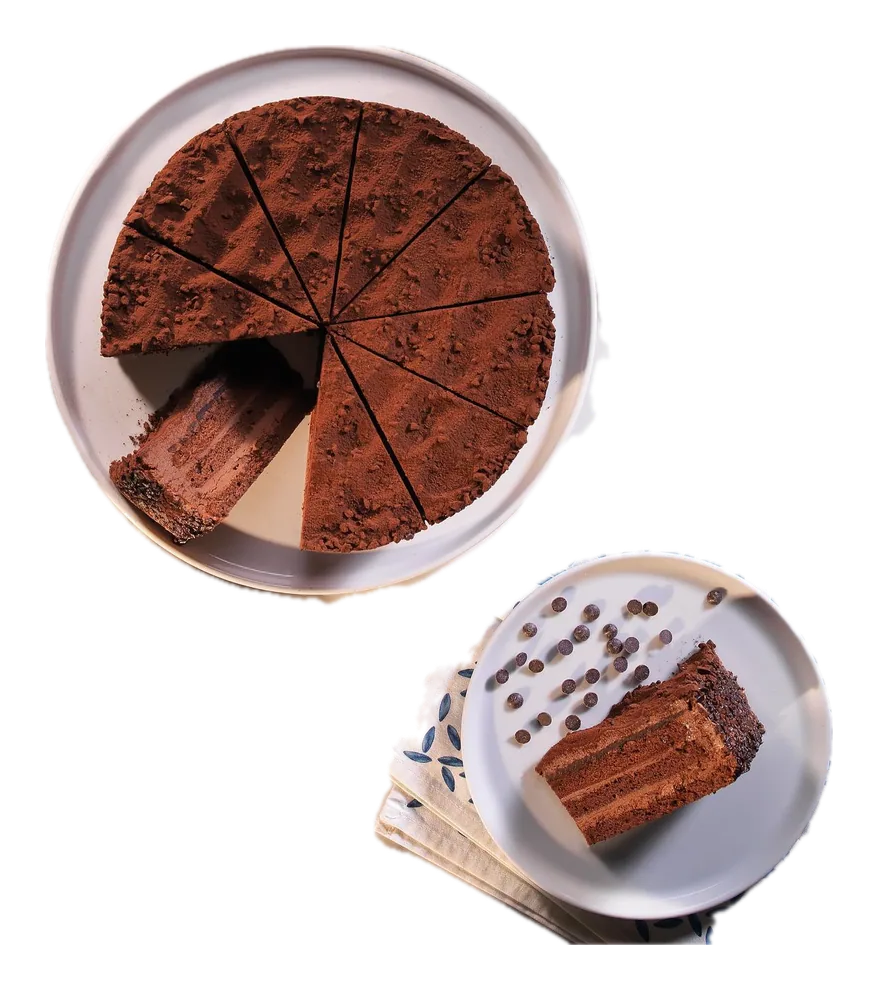
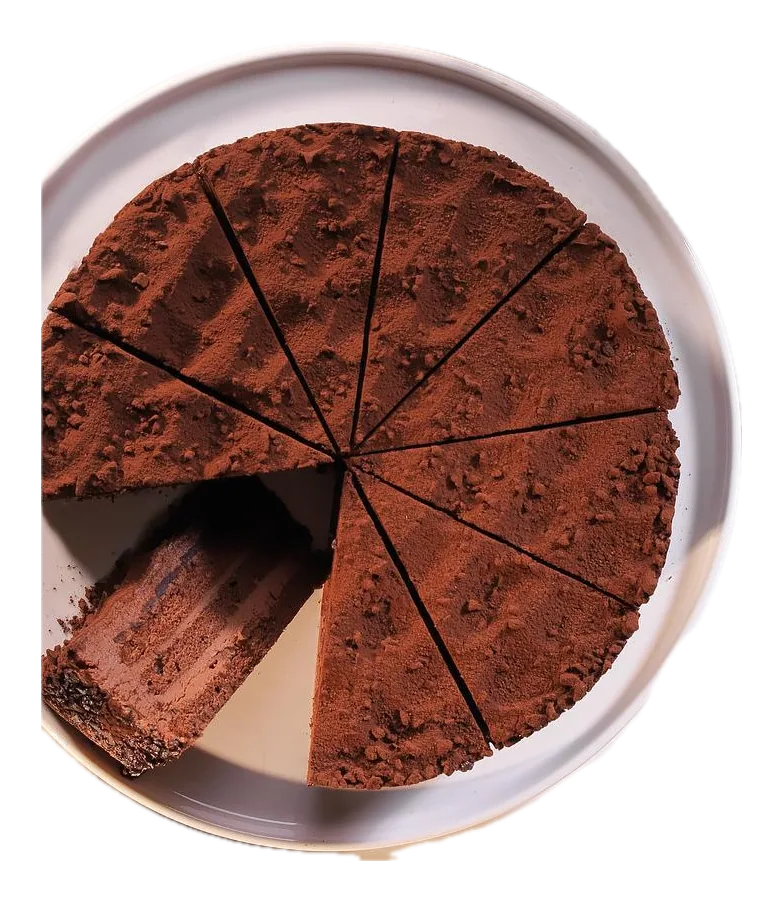
fix: tatlı görsellerinde kesit düzeltmeleri ve ad temizliği
53 tatlı görselinin tamamı gözden geçirildi.

KESİT DÜZELTMELERİ (6 görsel)
Bozuk olanların hepsi sweets/ kökündeki yaşam tarzı fotoğraflarıydı;
dilim-tatlilar/ altındaki D'ORO stüdyo çekimleri temizdi. Sorun ortaktı:
bu fotoğraflarda tek bir ürün yok — bütün pasta, dilim, tabak, bardak ve
çikolata parçaları bir arada. Vision maskesi hepsini birlikte kesiyordu.

Çözüm yine kesitten önce özneye kırpmak oldu:
- Frambuaz Jöleli Cheesecake: yanındaki iki bardak kadraj dışına alındı
- Kakaolu Çikolatalı Pasta: yuvarlak pasta, dağınık çikolata parçaları hariç
- Latte Pasta: tabaktaki dilim (öncesinde üstten ve alttan kesiliyordu)
- Frambuazlı Pasta: tabaktaki dilim
- Orman Meyveli Cheesecake: bütün pasta, arkadaki dilim parçası hariç
- Frambuazlı Çikolata Bar: tabaktaki barlar

AD DÜZELTMELERİ (13 ürün)
"Premium" ve "Deluxe" ekleri hiçbir bilgi taşımıyor, arama motorunda da
karşılığı yok; ürünü gerçekten ayıran görünür özellik yazıldı:

  Çikolatalı Pasta                  → Kakaolu Çikolatalı Pasta
  Premium Çikolatalı Pasta          → Pudra Şekerli Çikolatalı Pasta
  Deluxe Çikolatalı Pasta           → Çikolatalı Mus Bar
  Fıstıklı Çikolatalı Pasta Premium → Fıstık Kremalı Çikolatalı Pasta
  Fıstıklı Çikolatalı Pasta Deluxe  → Çifte Fıstıklı Çikolatalı Pasta
  Frambuazlı Cheesecake             → Frambuaz Jöleli Cheesecake
  Frambuazlı Cheesecake Premium     → Frambuazlı Dilim Cheesecake
  Yaban Mersinli Cheesecake Premium → Yaban Mersini Soslu Cheesecake
[…]

diff --git a/src/data/products.js b/src/data/products.js
@@ -499,11 +499,11 @@ export const products = [
   // TATLI ÜRÜNLERİ
   {
     id: 10,
-    slug: "doro-cake-frambuazli-cheesecake",
-    name: "DORO CAKE Frambuazlı Cheesecake",
+    slug: "doro-cake-frambuaz-joleli-cheesecake",
+    name: "DORO CAKE Frambuaz Jöleli Cheesecake",
     brand: "DORO CAKE",
-    productName: "Frambuazlı Cheesecake",
-    description: "Taze frambuazlı cheesecake, kahvenizin mükemmel eşlikçisi",
+    productName: "Frambuaz Jöleli Cheesecake",
+    description: "Frambuaz jölesiyle kaplanmış bütün cheesecake",
     category: "tatli",
     subCategory: "pasta",
     image: "images/sweets/frambuazlı-cheesecake.webp",
@@ -514,11 +514,11 @@ export const products = [
   },
   {
     id: 11,
-    slug: "doro-cake-cikolatali-pasta",
-    name: "DORO CAKE Çikolatalı Pasta",
+    slug: "doro-cake-kakaolu-cikolatali-pasta",
+    name: "DORO CAKE Kakaolu Çikolatalı Pasta",
     brand: "DORO CAKE",
-    productName: "Çikolatalı Pasta",
-    description: "Yoğun çikolata aromalı özel pasta",
+    productName: "Kakaolu Çikolatalı Pasta",
+    description: "Kakao serpilmiş, koyu çikolata katmanlı yuvarlak pasta",
     category: "tatli",
     subCategory: "çikolata",
     image: "images/sweets/cikolatalı-pasta-1.webp",
@@ -559,11 +559,11 @@ export const products = [
   },
   {
     id: 26,
-    slug: "doro-cake-premium-cikolatali-pasta",
-    name: "DORO CAKE Premium Çikolatalı Pasta",
+    slug: "doro-cake-pudra-sekerli-cikolatali-pasta",
+    name: "DORO CAKE Pudra Şekerli Çikolatalı Pasta",
     brand: "DORO CAKE",
-    productName: "Premium Çikolatalı Pasta",
-    description: "Özel çikolata karışımı ile hazırlanmış pasta",
+    productName: "Pudra Şekerli Çikolatalı Pasta",
+    description: "Pudra şekeri serpilmiş, yoğun çikolatalı dilim pasta",
     category: "tatli",
     subCategory: "çikolata",
     image: "images/sweets/cikolotali-pasta-2.webp",
@@ -574,11 +574,11 @@ export const products = [
   },
   {
     id: 27,
-    slug: "doro-cake-deluxe-cikolatali-pasta",
-    name: "DORO CAKE Deluxe Çikolatalı Pasta",
+    slug: "doro-cake-cikolatali-mus-bar",
+    name: "DORO CAKE Çikolatalı Mus Bar",
     brand: "DORO CAKE",
-    productName: "Deluxe Çikolatalı Pasta",
-    description: "Zengin çikolata katmanları ile özel pasta",
+    productName: "Çikolatalı Mus Bar",
+    description: "Çikolata bukleleri ve fıstıkla süslenmiş çikolatalı mus bar",
     category: "tatli",
     subCategory: "çikolata",
     image: "images/sweets/çikolatali-pasta-3.webp",
@@ -604,11 +604,11 @@ export const products = [
   },
   {
     id: 29,
-    slug: "doro-cake-kirmizi-meyveli-pasta",
-    name: "DORO CAKE Kırmızı Meyveli Pasta",
+    slug: "doro-cake-orman-meyveli-cheesecake",
+    name: "DORO CAKE Orman Meyveli Cheesecake",
     brand: "DORO CAKE",
-    productName: "Kırmızı Meyveli Pasta",
-    description: "Karışık kırmızı meyveler ile hazırlanmış pasta",
+    productName: "Orman Meyveli Cheesecake",
+    description: "Koyu orman meyvesi soslu, krema rozetli bütün cheesecake",
     category: "tatli",
     subCategory: "pasta",
     image: "images/sweets/kirmizi-meyveli-pasta.webp",
@@ -619,11 +619,11 @@ export const products = [
   },
   {
     id: 30,
-    slug: "doro-cake-krokanli-cikolatali-pasta",
-    name: "DORO CAKE Krokanlı Çikolatalı Pasta",
+    slug: "doro-cake-frambuazli-cikolata-bar",
+    name: "DORO CAKE Frambuazlı Çikolata Bar",
     brand: "DORO CAKE",
-    productName: "Krokanlı Çikolatalı Pasta",
-    description: "Çıtır krokan parçacıklı çikolatalı pasta",
+    productName: "Frambuazlı Çikolata Bar",
+    description: "Fındık krokanlı çikolatayla kaplı, frambuaz dolgulu bar",
     category: "tatli",
     subCategory: "çikolata",
     image: "images/sweets/krokanli-cikolatali-pasta.webp",
@@ -756,11 +756,11 @@ export const products = [
   },
   {
     id: 72,
-    slug: "doro-cake-beyaz-cikolatali-kalp",
-    name: "DORO CAKE Beyaz Çikolatalı Kalp",
+    slug: "doro-cake-beyaz-cikolatali-kare-pasta",
+    name: "DORO CAKE Beyaz Çikolatalı Kare Pasta",
     brand: "DORO CAKE",
-    productName: "Beyaz Çikolatalı Kalp",
-    description: "Kalp şeklinde beyaz çikolata kaplı pasta",
+    productName: "Beyaz Çikolatalı Kare Pasta",
+    description: "Rendelenmiş beyaz çikolatayla kaplanmış kare dilim pasta",
     category: "tatli",
     subCategory: "çikolata",
     image: "images/sweets/dilim-tatlilar/beyaz-cikolatali-kalp.webp",
@@ -786,11 +786,11 @@ export const products = [
   },
   {
     id: 74,
-    slug: "doro-cake-fistikli-cikolatali-pasta-premium",
-    name: "DORO CAKE Fıstıklı Çikolatalı Pasta Premium",
+    slug: "doro-cake-fistik-kremali-cikolatali-pasta",
+    name: "DORO CAKE Fıstık Kremalı Çikolatalı Pasta",
     brand: "DORO CAKE",
-    productName: "Fıstıklı Çikolatalı Pasta Premium",
-    description: "Katmanlı fıstık ve çikolata kremalı pasta",
+    productName: "Fıstık Kremalı Çikolatalı Pasta",
+    description: "Fıstık kreması katmanlı, çikolatalı dilim pasta",
     category: "tatli",
     subCategory: "pasta",
     image: "images/sweets/dilim-tatlilar/fistikli-cikolatali-pasta-2.webp",
@@ -891,11 +891,11 @@ export const products = [
   },
   {
     id: 81,
-    slug: "doro-cake-fistikli-cikolatali-pasta-deluxe",
-    name: "DORO CAKE Fıstıklı Çikolatalı Pasta Deluxe",
+    slug: "doro-cake-cifte-fistikli-cikolatali-pasta",
+    name: "DORO CAKE Çifte Fıstıklı Çikolatalı Pasta",
     brand: "DORO CAKE",
-    productName: "Fıstıklı Çikolatalı Pasta Deluxe",
-    description: "Toz fıstık kaplı çikolatalı özel pasta",
+    productName: "Çifte Fıstıklı Çikolatalı Pasta",
+    description: "Kalın fıstık ve çikolata katmanlı, fıstık serpili dilim pasta",
     category: "tatli",
     subCategory: "pasta",
     image: "images/sweets/dilim-tatlilar/fistikli-cikolatali-pasta-3.webp",
@@ -1101,11 +1101,11 @@ export const products = [
   },
   {
     id: 95,
-    slug: "doro-cake-cikolatali-toplu-brownie",
-    name: "DORO CAKE Çikolatalı Toplu Brownie",
+    slug: "doro-cake-cikolata-kureli-brownie",
+    name: "DORO CAKE Çikolata Küreli Brownie",
     brand: "DORO CAKE",
-    productName: "Çikolatalı Toplu Brownie",
-    description: "Çikolata topları ile süslenmiş brownie",
+    productName: "Çikolata Küreli Brownie",
+    description: "Üzeri çikolata küreleriyle süslenmiş yoğun brownie",
     category: "tatli",
     subCategory: "çikolata",
     image: "images/sweets/dilim-tatlilar/cikolatali-toplu-brownie.webp",
@@ -1161,11 +1161,11 @@ export const products = [
   },
   {
     id: 99,
-    slug: "doro-cake-yaban-mersinli-cheesecake-premium",
-    name: "DORO CAKE Yaban Mersinli Cheesecake Premium",
+    slug: "doro-cake-yaban-mersini-soslu-cheesecake",
+    name: "DORO CAKE Yaban Mersini Soslu Cheesecake",
     brand: "DORO CAKE",
-    productName: "Yaban Mersinli Cheesecake Premium",
-    description: "Yaban mersini soslu premium cheesecake",
+    productName: "Yaban Mersini Soslu Cheesecake",
+    description: "Yoğun yaban mersini sosuyla kaplanmış dilim cheesecake",
     category: "tatli",
     subCategory: "cheesecake",
     image: "images/sweets/dilim-tatlilar/yaban-mersinli-cheesecake-2.webp",
@@ -1176,11 +1176,11 @@ export const products = [
   },
   {
     id: 100,
-    slug: "doro-cake-orman-meyveli-pasta-premium",
-    name: "DORO CAKE Orman Meyveli Pasta Premium",
+    slug: "doro-cake-orman-meyveli-kremali-pasta",
+    name: "DORO CAKE Orman Meyveli Kremalı Pasta",
     brand: "DORO CAKE",
-    productName: "Orman Meyveli Pasta Premium",
-    description: "Bol orman meyveli özel pasta",
+    productName: "Orman Meyveli Kremalı Pasta",
+    description: "Krema katmanları arasında orman meyveli dilim pasta",
     category: "tatli",
     subCategory: "pasta",
     image: "images/sweets/dilim-tatlilar/orman-meyveli-pasta-2.webp",
@@ -1266,11 +1266,11 @@ export const products = [
   },
   {
     id: 107,
-    slug: "doro-cake-frambuazli-cheesecake-premium",
-    name: "DORO CAKE Frambuazlı Cheesecake Premium",
+    slug: "doro-cake-frambuazli-dilim-cheesecake",
+    name: "DORO CAKE Frambuazlı Dilim Cheesecake",
     brand: "DORO CAKE",
-    productName: "Frambuazlı Cheesecake Premium",
-    description: "Frambuaz soslu premium cheesecake",
+    productName: "Frambuazlı Dilim Cheesecake",
+    description: "Beyaz krema ve frambuaz jöleli dilim cheesecake",
     category: "tatli",
     subCategory: "cheesecake",
     image: "images/sweets/dilim-tatlilar/frambuazli-cheesecake.webp",

diff --git a/src/data/home-sliders.js b/src/data/home-sliders.js
@@ -23,11 +23,11 @@ const sliderConfig = {
   sweets: {
     categories: ['tatli'],
     oneCikanlar: [
-      'doro-cake-frambuazli-cheesecake',
-      'doro-cake-cikolatali-pasta',
+      'doro-cake-frambuaz-joleli-cheesecake',
+      'doro-cake-kakaolu-cikolatali-pasta',
       'doro-cake-frambuazli-pasta',
-      'doro-cake-krokanli-cikolatali-pasta',
-      'doro-cake-kirmizi-meyveli-pasta',
+      'doro-cake-frambuazli-cikolata-bar',
+      'doro-cake-orman-meyveli-cheesecake',
       'doro-cake-cikolatali-kurabiye',
       'doro-cake-tiramisu',
       'doro-cake-san-sebastian-cheesecake',

diff --git a/TODO.md b/TODO.md
@@ -72,6 +72,29 @@ romantik tonda kaldı ve yeni ana sayfayla çelişiyor:
   kullanılmalı (`products.js` id=64, slug `doro-cake-cikolatali-kurabiye`).
 
 
+### Tatlı adlarında marka riski
+
+Dört tatlı, başka şirketlerin tescilli markalarını ad olarak taşıyor:
+
+| Ürün | Marka sahibi |
+|---|---|
+| Ferrero Rocher | Ferrero |
+| Beyaz Çikolatalı Raffaello | Ferrero |
+| Fıstıklı Albeni | Ülker |
+| Kırmızı Kadife Albeni | Ülker |
+
+Bunlara dokunmadım çünkü karar hukuki, tasarımsal değil:
+
+- **Albeni'li ikisinin görselinde gerçekten "Albeni" markalı ambalaj var.** Eğer
+  bunlar Ülker'in ürünüyse ve siz bayi olarak satıyorsanız ad doğru, sorun yok.
+  Ama ambalaj D'ORO'ya aitse ve marka adı ödünç alınmışsa risk var.
+- **Ferrero Rocher ve Raffaello** birer tatlı çeşidi değil, tescilli ürün adı.
+  Kendi üretiminizse "Fındıklı Çikolata Topu" ve "Hindistan Cevizli Beyaz
+  Çikolatalı Pasta" gibi tanımlayıcı adlar hem güvenli hem SEO açısından daha
+  iyi olur (kimse "ferrero rocher pasta dilimi" aramıyor).
+
+Ne olduklarını siz bilirsiniz; söylerseniz düzeltirim.
+
 ## QR menü — karar bekliyor
 
 `/menu` şu an "yenileniyor" yer tutucusu. Eski QR menü uygulamasının kaynağı
